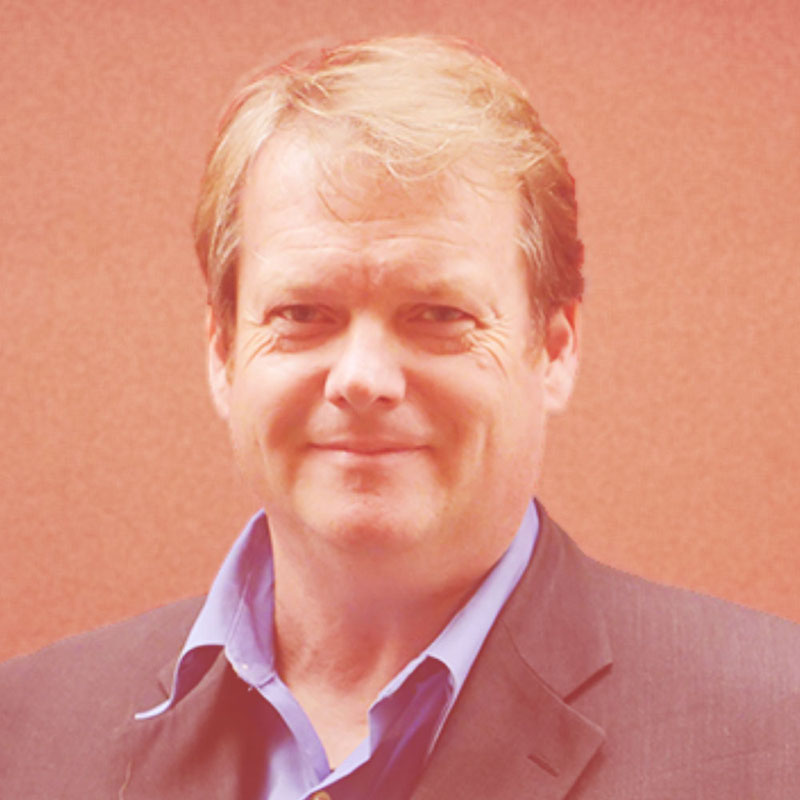
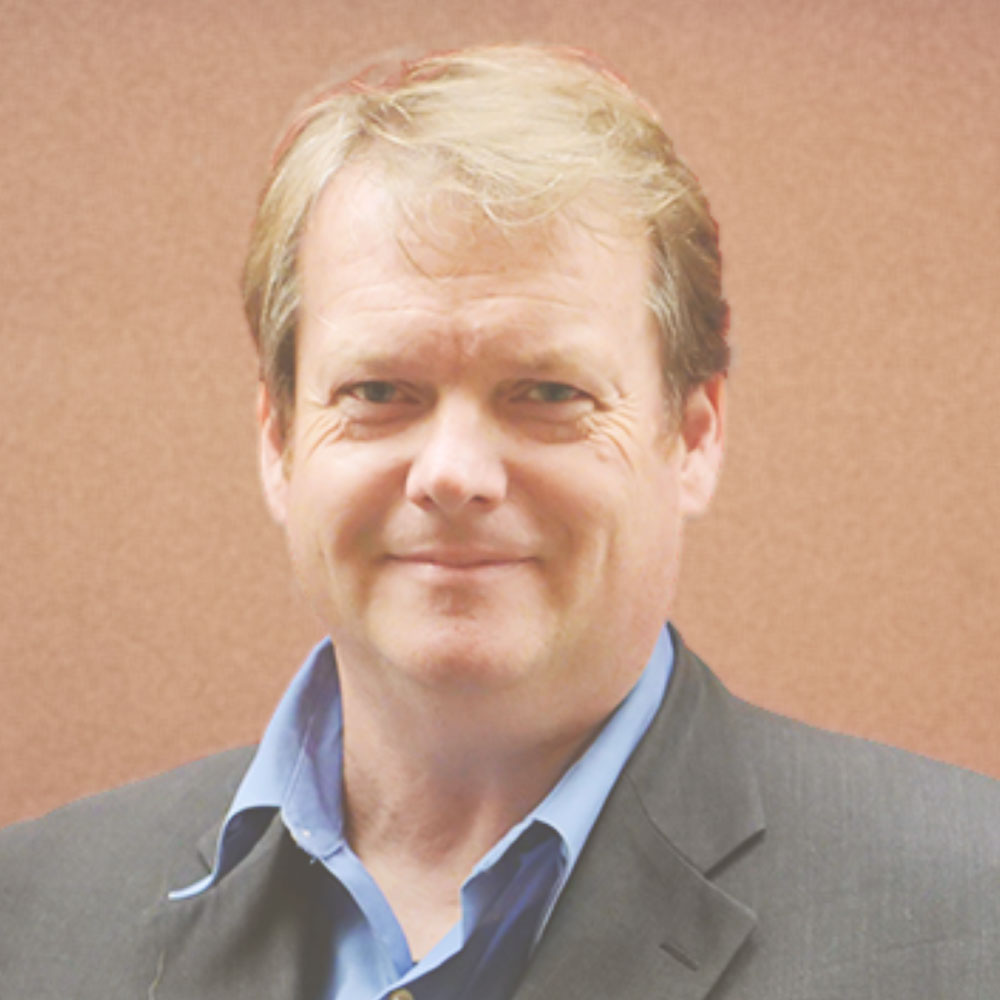
text edits, image updates

diff --git a/brand/images.md b/brand/images.md
@@ -2,6 +2,7 @@
 <style>
 .divider {
   clear:both;
+  height: 4em;
 }
 .mkd-img-border {
   margin:1em 0px;
@@ -67,8 +68,9 @@
   }
 }
 </style>
-arXiv's branding uses both photographic and illustrated imagery. We must have the legal right to use any photos and illustrations. All image libraries linked from this page have been vetted for use in arXiv materials only. All other use is prohibited.  
+arXiv's branding uses both photographic and illustrated imagery. We must have the legal right to use any photos and illustrations. All assets within arXiv image libraries have been vetted for use in arXiv materials only, other use is prohibited.
 
+<div class="divider"></div>
 
 ##Photos <a href="https://cornell.box.com/v/arXiv-photo-library" class="button-fancy">Go to Photo Library <span> </span></a>
 
@@ -80,6 +82,7 @@ We apply color washes to photos in our brand colors of Warm Grey, Bright Blue, D
 Photographs can be overlayed with a type treatment as seen here. Learn more on our [tagline](tagline) page.
 ![photo of CU Tech campus with tagline](images/brand-image-tagline.jpg){.mkd-img-60 .mkd-vert-spacing}  
 
+<div class="divider"></div>
 
 
 ##Illustrations <a href="https://cornell.box.com/v/arXiv-illustration-library" class="button-fancy">Go to Illustration Library <span> </span></a>
@@ -98,7 +101,7 @@ Illustrations are used to represent abstract concepts or stakeholder groups. The
 
 ##Portraits <a href="https://cornell.box.com/s/thg5f7qaxmfvr2yawv1vb85inaz9acu4" class="button-fancy">Go to Portrait Library <span> </span></a>
 
-We also stylize staff and other stakeholder portraits with a color wash, and square crop. Here are two examples:
+We also stylize staff and other stakeholder portraits with a color wash, and square crop. Here are two examples in Dark Blue and Warm Grey, respectively:
 ![portrait of Licia Verde](images/brand-image-portrait.jpg){.mkd-img-left}
 ![portrait of Licia Verde](images/brand-image-portrait-2.jpg){.mkd-img-right}
 
